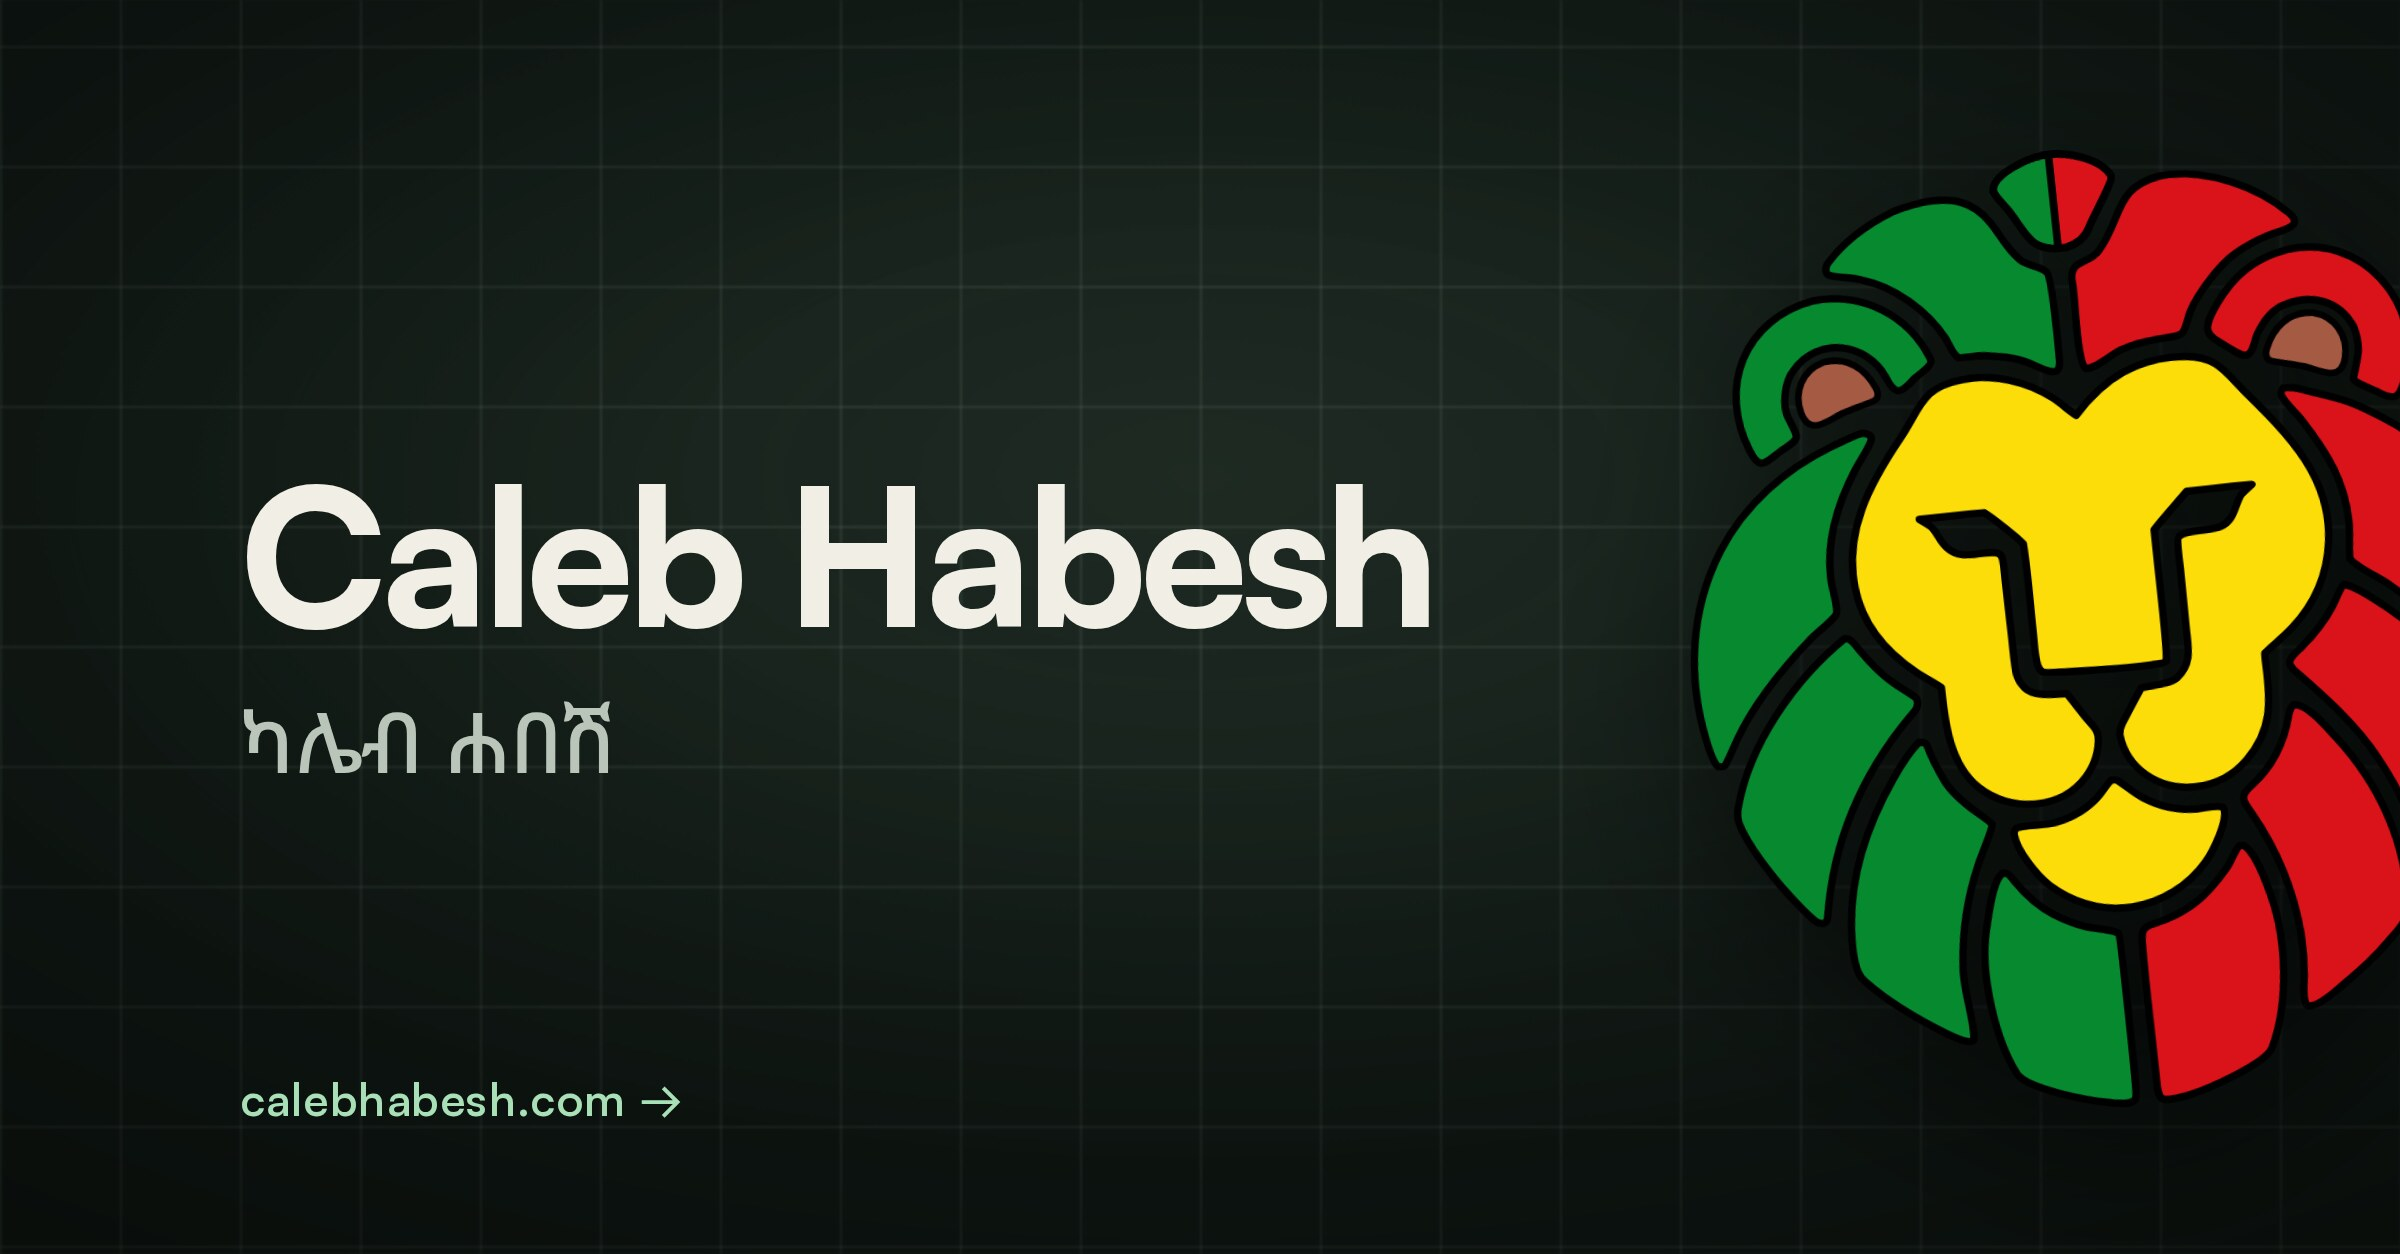
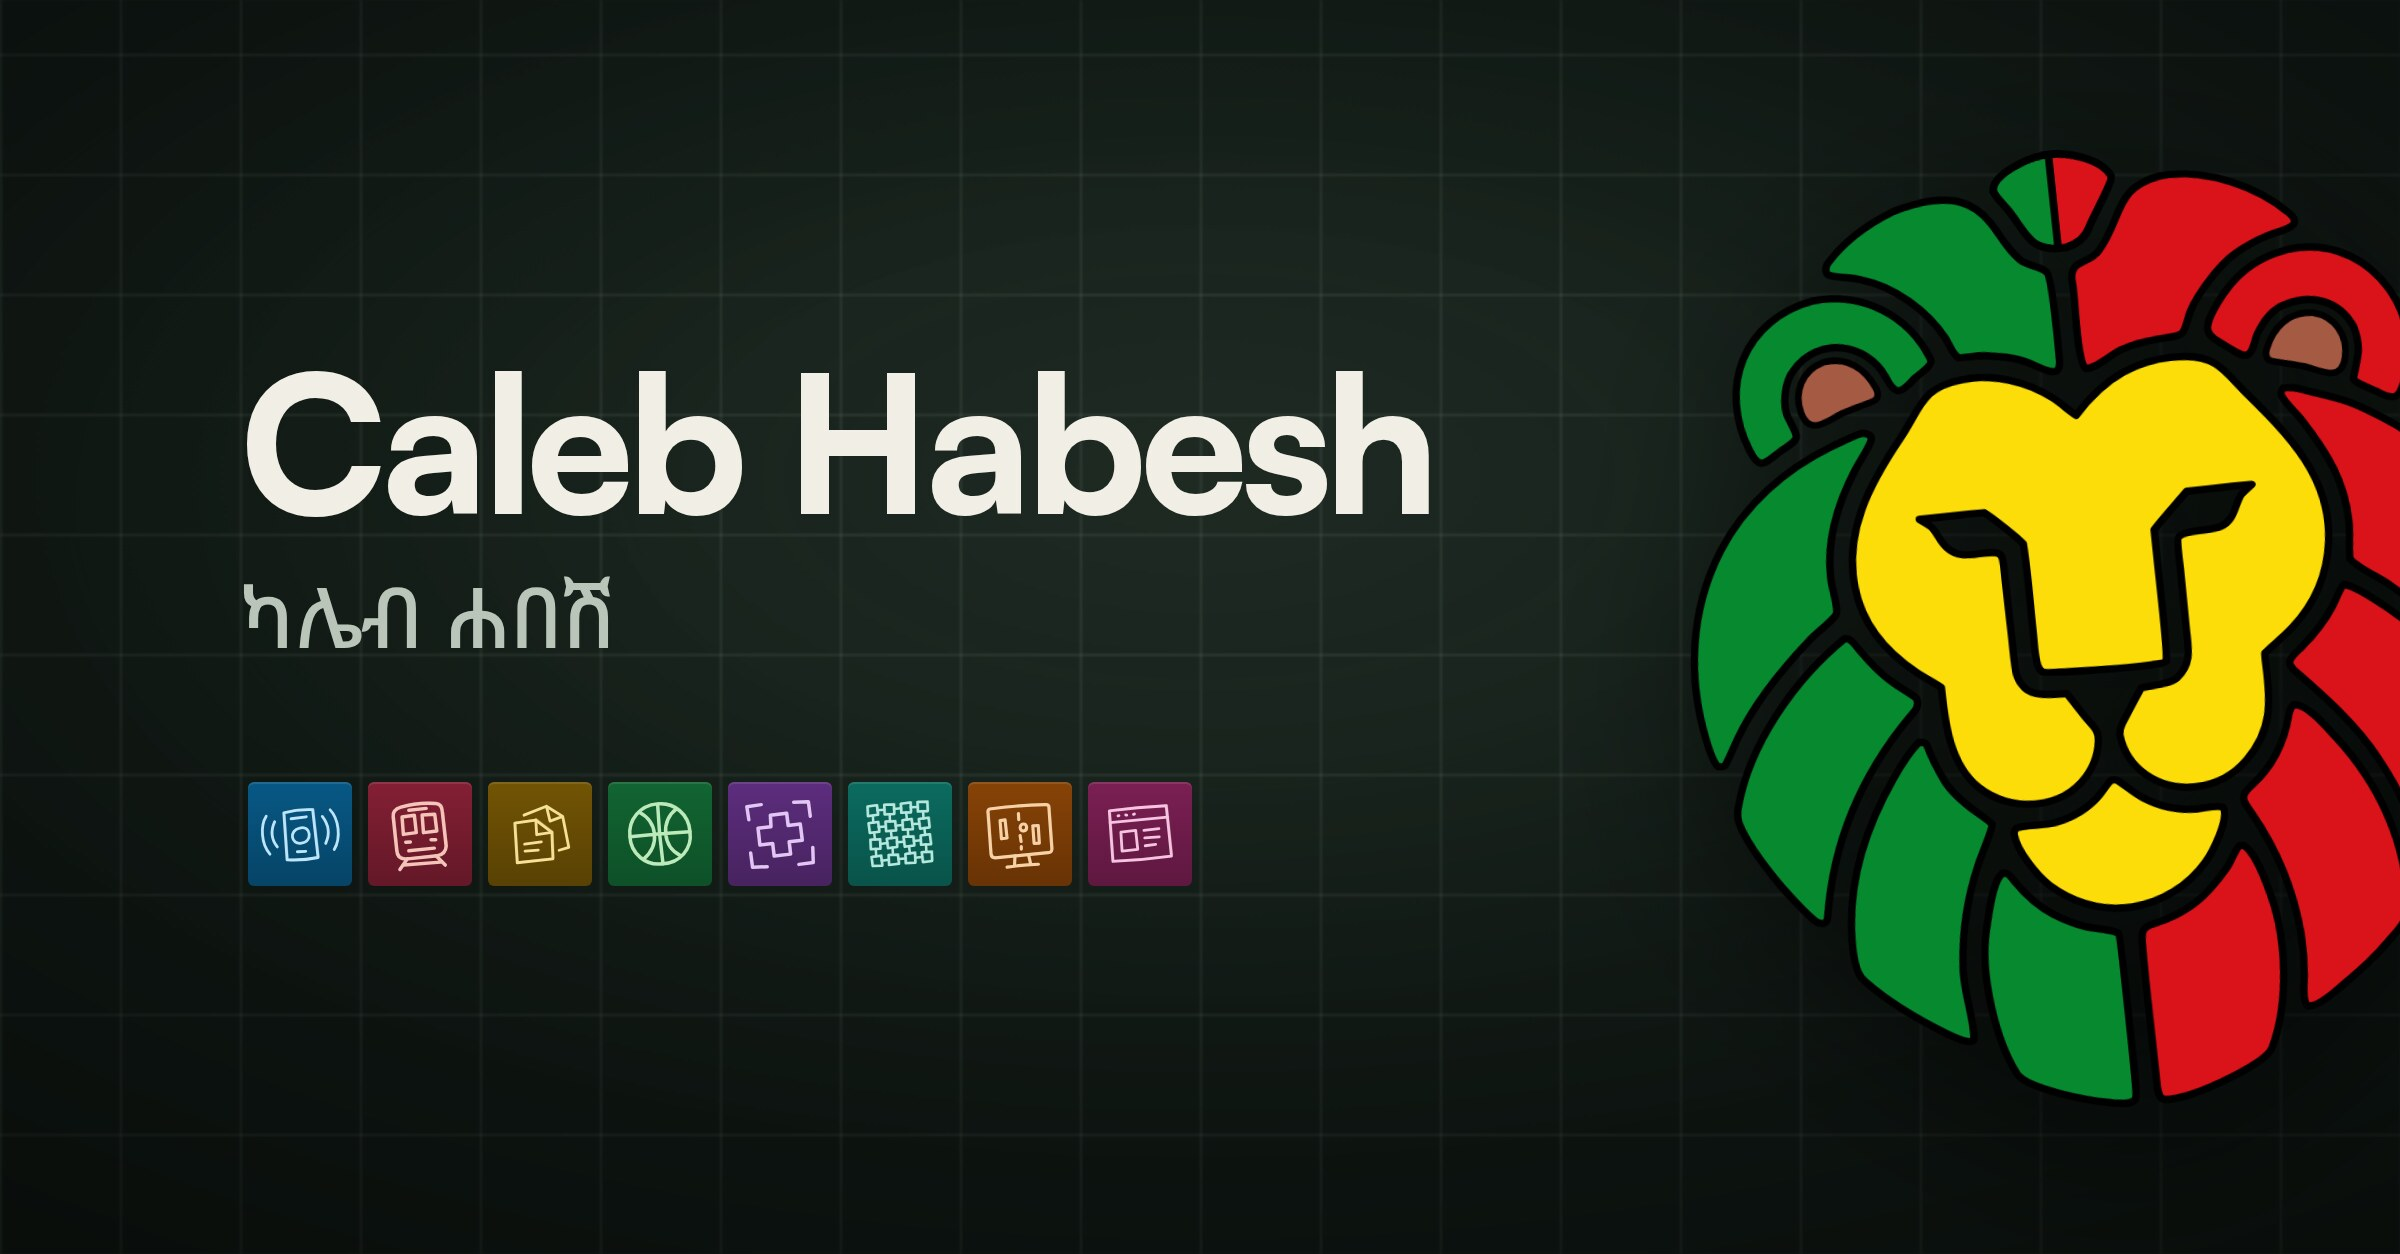
Add project sketches to the link preview and drop the URL

Changed region(s): [[0.0938, 0.2799, 0.5938, 0.5287], [0.0938, 0.5598, 0.5, 0.7153], [0.0938, 0.8708, 0.2812, 0.9019]]

diff --git a/index.html b/index.html
@@ -50,10 +50,10 @@
     />
     <meta property="og:type" content="website" />
     <meta property="og:url" content="https://calebhabesh.com/" />
-    <meta property="og:image" content="https://calebhabesh.com/og-image.jpg?v=3352b824a62b" />
+    <meta property="og:image" content="https://calebhabesh.com/og-image.jpg?v=ecd8285d96bc" />
     <meta property="og:image:width" content="2400" />
     <meta property="og:image:height" content="1254" />
-    <meta property="og:image:alt" content="Caleb Habesh in English and Ge'ez beside the lion emblem on the site's dark grid." />
+    <meta property="og:image:alt" content="Caleb Habesh in English and Ge'ez above sketches of eight projects, beside the lion emblem on the site's dark grid." />
     <meta name="twitter:card" content="summary_large_image" />
     <link rel="canonical" href="https://calebhabesh.com/" />
     <link rel="icon" href="/favicon.svg" type="image/svg+xml" />
